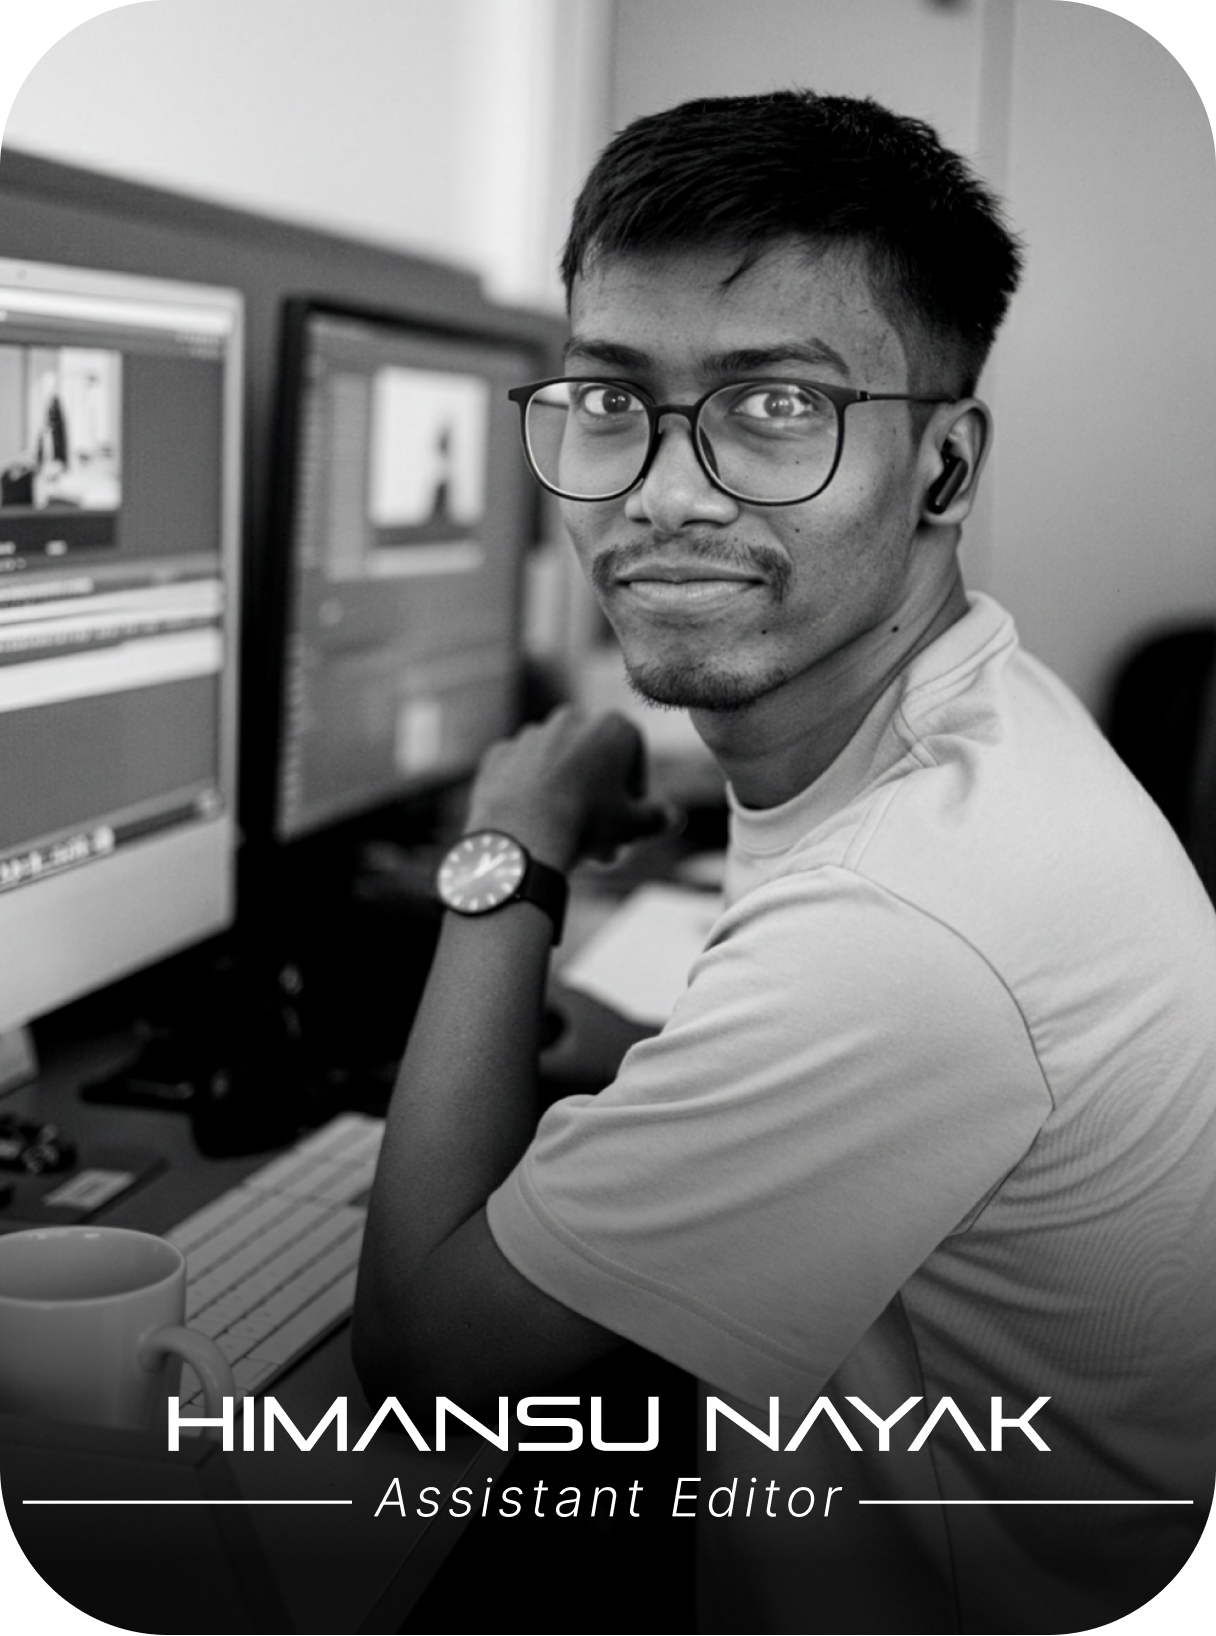
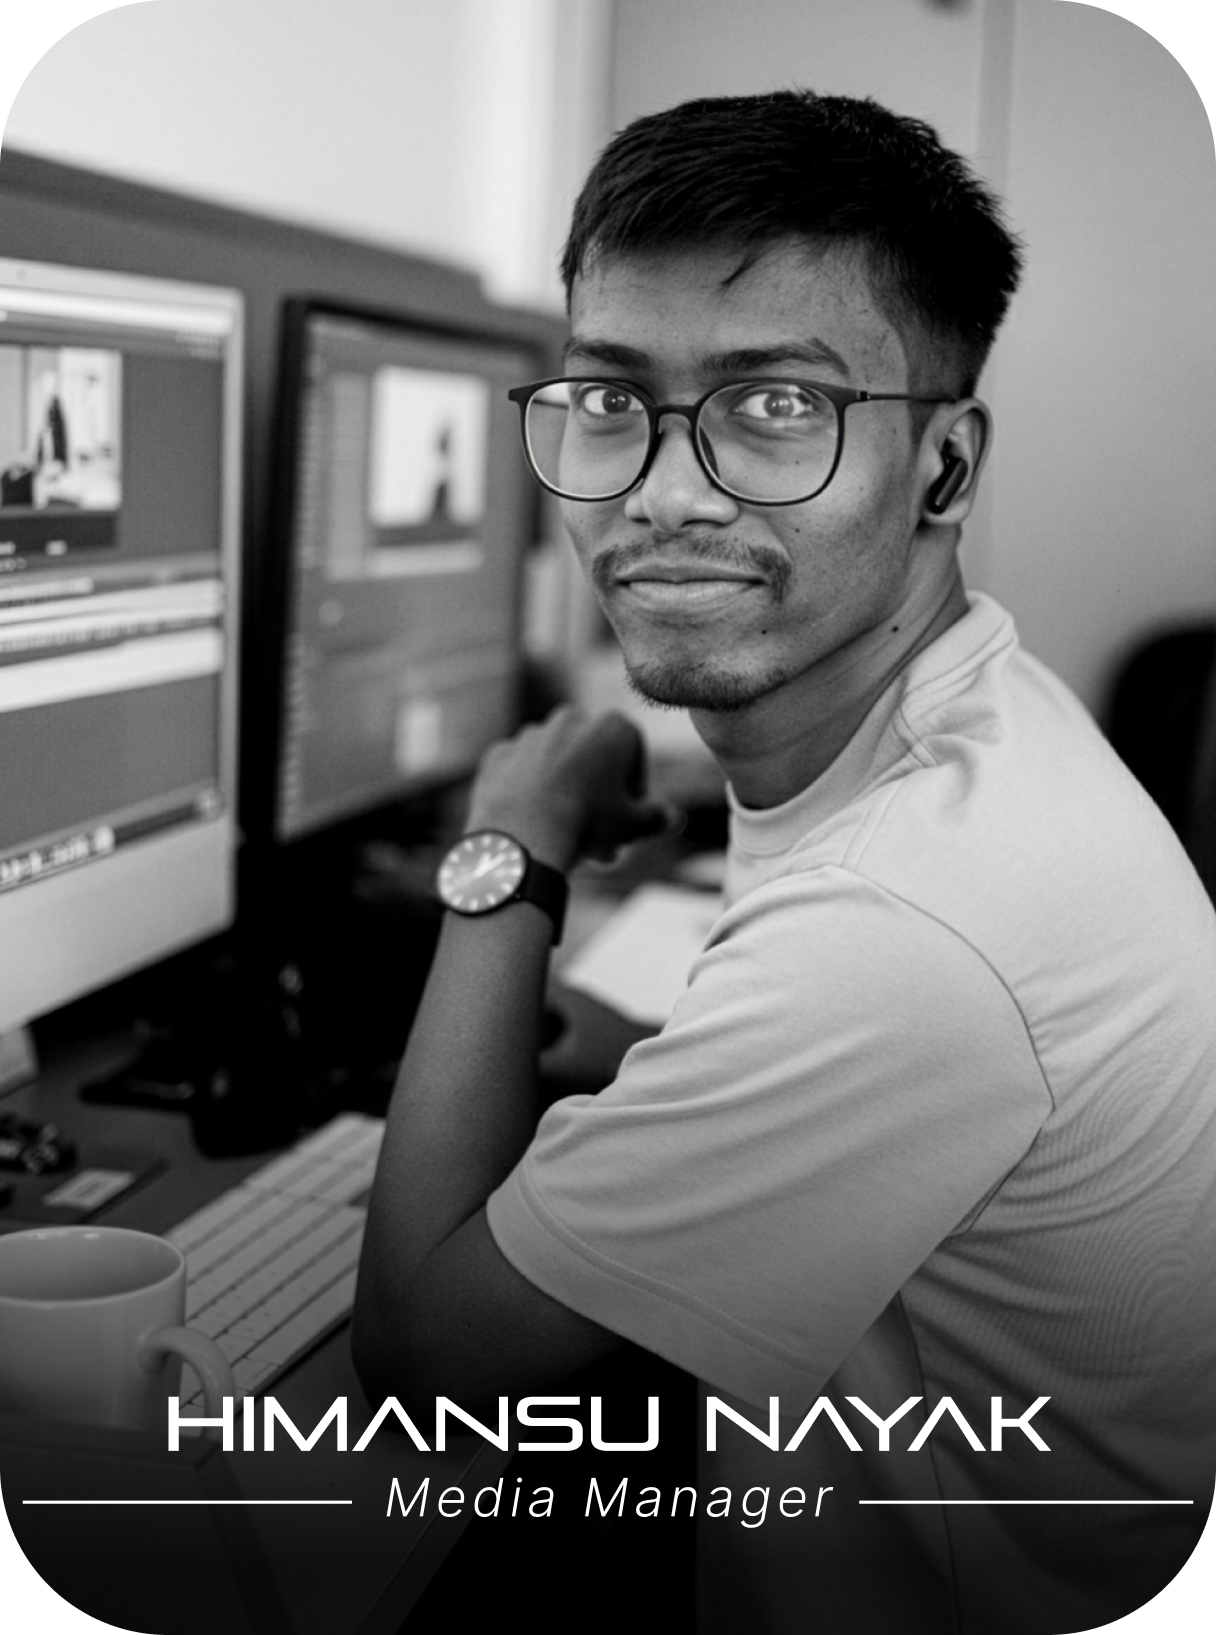
V3 updates #2

Changed region(s): [[0.0938, 0.9982, 0.9062, 1.0], [0.3125, 0.9046, 0.6875, 0.9358], [0.4375, 0.8422, 0.4688, 0.8734]]

diff --git a/app/components/Carousel/images.ts b/app/components/Carousel/images.ts
@@ -19,31 +19,31 @@ export const testimonials2 = [
 ];
 export const teams = [
   "/team/v2/1.png",
-  "/team/v2/2.png",
-  "/team/v2/3.png",
-  "/team/v2/4.png",
+  "/team/v3/2.png",
+  "/team/v3/3.png",
+  "/team/v3/4.png",
   "/team/v3/Group_8.png",
   "/team/v2/24.png",
   "/team/v2/8.png",
-  "/team/v2/18.png",
-  "/team/v2/19.png",
+  "/team/v3/18.png",
+  "/team/v3/19.png",
   "/team/v3/Group_14.png",
   "/team/v2/20.png",
   "/team/v3/Group_17.png",
   "/team/v3/Group_7.png",
-  "/team/v3/Group_13.png",
   "/team/v2/14.png",
+  "/team/v3/Group_13.png",
   "/team/v3/Group_16.png",
   "/team/v3/Group_10.png",
   "/team/v3/Group_38.png",
   "/team/v2/23.png",
-  "/team/v2/13.png",
+  "/team/v3/13.png",
   "/team/v3/Group_15.png",
-  "/team/v2/10.png",
+  "/team/v3/10.png",
   "/team/v3/Group_11.png",
   "/team/v2/9.png",
-  "/team/v2/22.png",
-  "/team/v2/11.png",
+  "/team/v3/22.png",
+  "/team/v3/11.png",
   "/team/v3/Group_6.png",
   "/team/v2/25.png",
 ];
